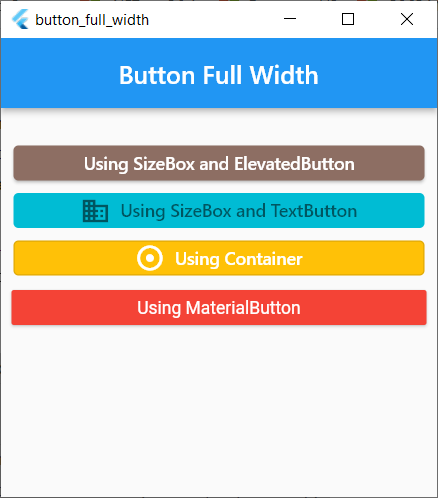
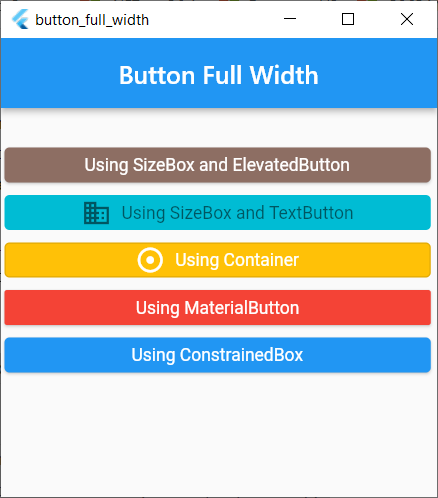
Button Full Width updated

Changed region(s): [[0.0, 0.2711, 1.0, 0.753]]

diff --git a/src/button_full_width/lib/main.dart b/src/button_full_width/lib/main.dart
@@ -85,13 +85,24 @@ class _HomePageState extends State<HomePage> {
             const SizedBox(
               height: 10,
             ),
-             MaterialButton(
+            // With a MaterialButton
+            MaterialButton(
                 minWidth: double.infinity,
                 color: Colors.red,
                 textColor: Colors.white,
                 onPressed: () {},
-                child: const Text('Using MaterialButton')
-             ),
+                child: const Text('Using MaterialButton')),
+            // Separator
+            const SizedBox(
+              height: 10,
+            ),
+            // With a ConstrainedBox
+            ConstrainedBox(
+                constraints: const BoxConstraints(minWidth: double.infinity),
+                child: ElevatedButton(
+                  onPressed: () {},
+                  child: const Text('Using ConstrainedBox'),
+                )),
           ],
         ),
       ),
